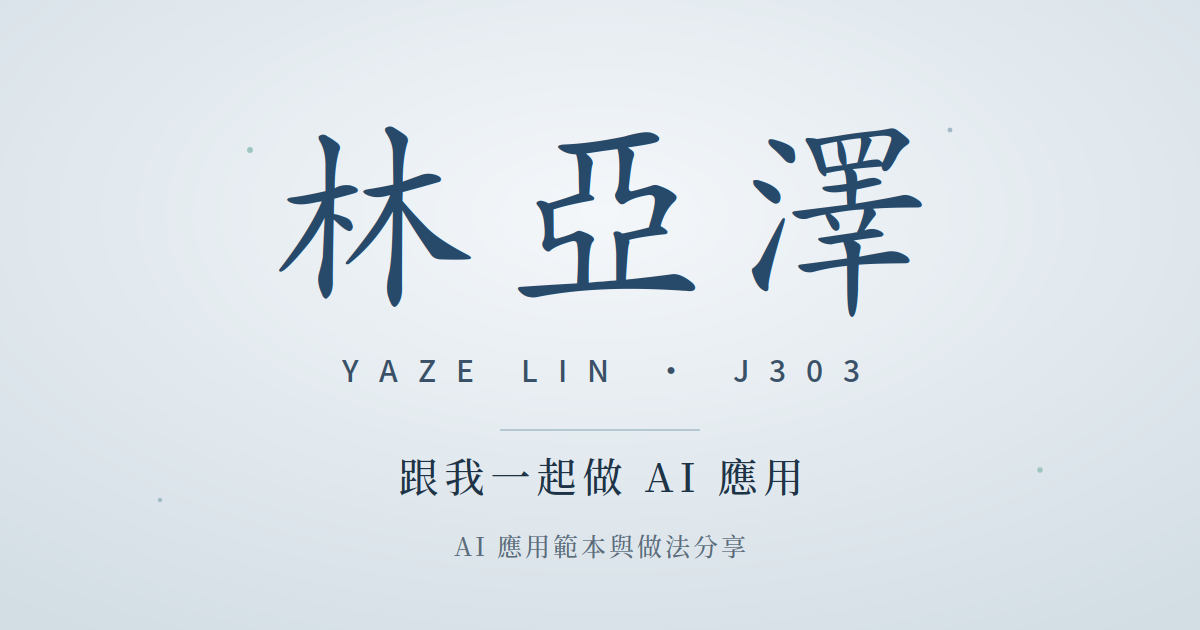
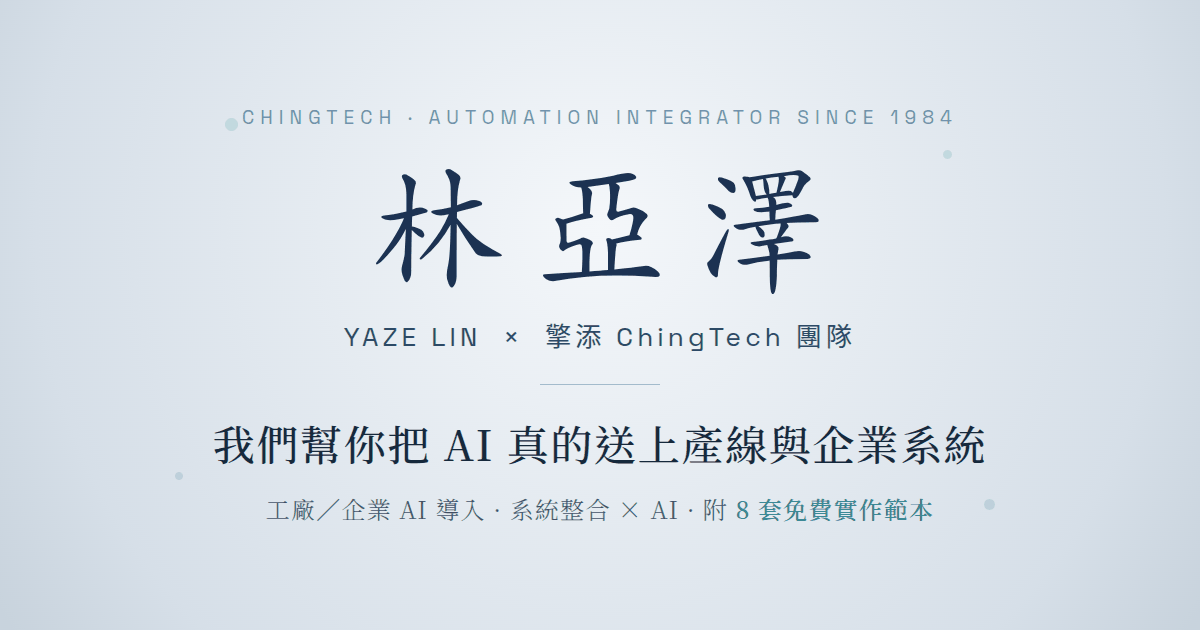
j303: redraw og.png with team + consulting framing (#27)
The old OG card carried the original personal-teaching tagline ("跟我一起做 AI
應用 / AI 應用範本與做法分享"). Redraw it (keeping the 青花 light brand + 林亞澤
calligraphy via the embedded YazeKai font) to lead with the consulting + team
positioning per yazelin: "YAZE LIN × 擎添 ChingTech 團隊", "我們幫你把 AI 真的
送上產線與企業系統", kicker "ChingTech · Automation Integrator since 1984",
with the free-templates hook kept. 1200x630, optimized to ~107KB.

og.html is kept as the source so future redraws are a quick edit + re-render.

diff --git a/og.html b/og.html
@@ -1,0 +1,30 @@
+<!doctype html><html lang="zh-TW"><head><meta charset="utf-8">
+<link rel="preconnect" href="https://fonts.googleapis.com"><link rel="preconnect" href="https://fonts.gstatic.com" crossorigin>
+<link href="https://fonts.googleapis.com/css2?family=Noto+Serif+TC:wght@300;500&family=Space+Grotesk:wght@400;500&display=swap" rel="stylesheet">
+<style>
[1 lines of base64/hex data omitted]
+*{margin:0;box-sizing:border-box}
+html,body{width:1200px;height:630px;overflow:hidden}
+.card{width:1200px;height:630px;position:relative;display:flex;flex-direction:column;align-items:center;justify-content:center;
+  background:radial-gradient(circle at 50% 36%, #f4f7fa 0%, #d6dfe8 78%, #c7d2dc 100%);}
+.dot{position:absolute;border-radius:50%;background:rgba(47,140,121,.16)}
+.kick{font-family:'Space Grotesk',sans-serif;font-size:19px;letter-spacing:.32em;text-transform:uppercase;color:rgba(34,83,120,.6);margin-bottom:26px}
+.mark{font-family:'YazeKai','Noto Serif TC',serif;font-size:138px;line-height:1;letter-spacing:.18em;padding-left:.18em;color:#1c3252;}
+.sub{font-family:'Space Grotesk',sans-serif;font-size:26px;letter-spacing:.16em;color:#2c4a66;margin-top:22px}
+.rule{width:120px;height:1px;background:rgba(34,83,120,.35);margin:30px 0 28px}
+.lead{font-family:'Noto Serif TC',serif;font-weight:500;font-size:42px;letter-spacing:.04em;color:#16293c}
+.tail{font-family:'Noto Serif TC',serif;font-weight:300;font-size:24px;letter-spacing:.05em;color:#46586a;margin-top:18px}
+.tail b{color:#2f8c79;font-weight:500}
+</style></head>
+<body><div class="card">
+  <div class="dot" style="width:13px;height:13px;top:118px;left:225px"></div>
+  <div class="dot" style="width:9px;height:9px;top:150px;right:248px"></div>
+  <div class="dot" style="width:8px;height:8px;bottom:150px;left:175px"></div>
+  <div class="dot" style="width:11px;height:11px;bottom:120px;right:205px"></div>
+  <div class="kick">ChingTech · Automation Integrator since 1984</div>
+  <div class="mark">林亞澤</div>
+  <div class="sub">YAZE&nbsp;LIN&nbsp;&nbsp;×&nbsp;&nbsp;擎添&nbsp;ChingTech&nbsp;團隊</div>
+  <div class="rule"></div>
+  <div class="lead">我們幫你把 AI 真的送上產線與企業系統</div>
+  <div class="tail">工廠／企業 AI 導入 · 系統整合 × AI · 附 <b>8 套免費實作範本</b></div>
+</div></body></html>
